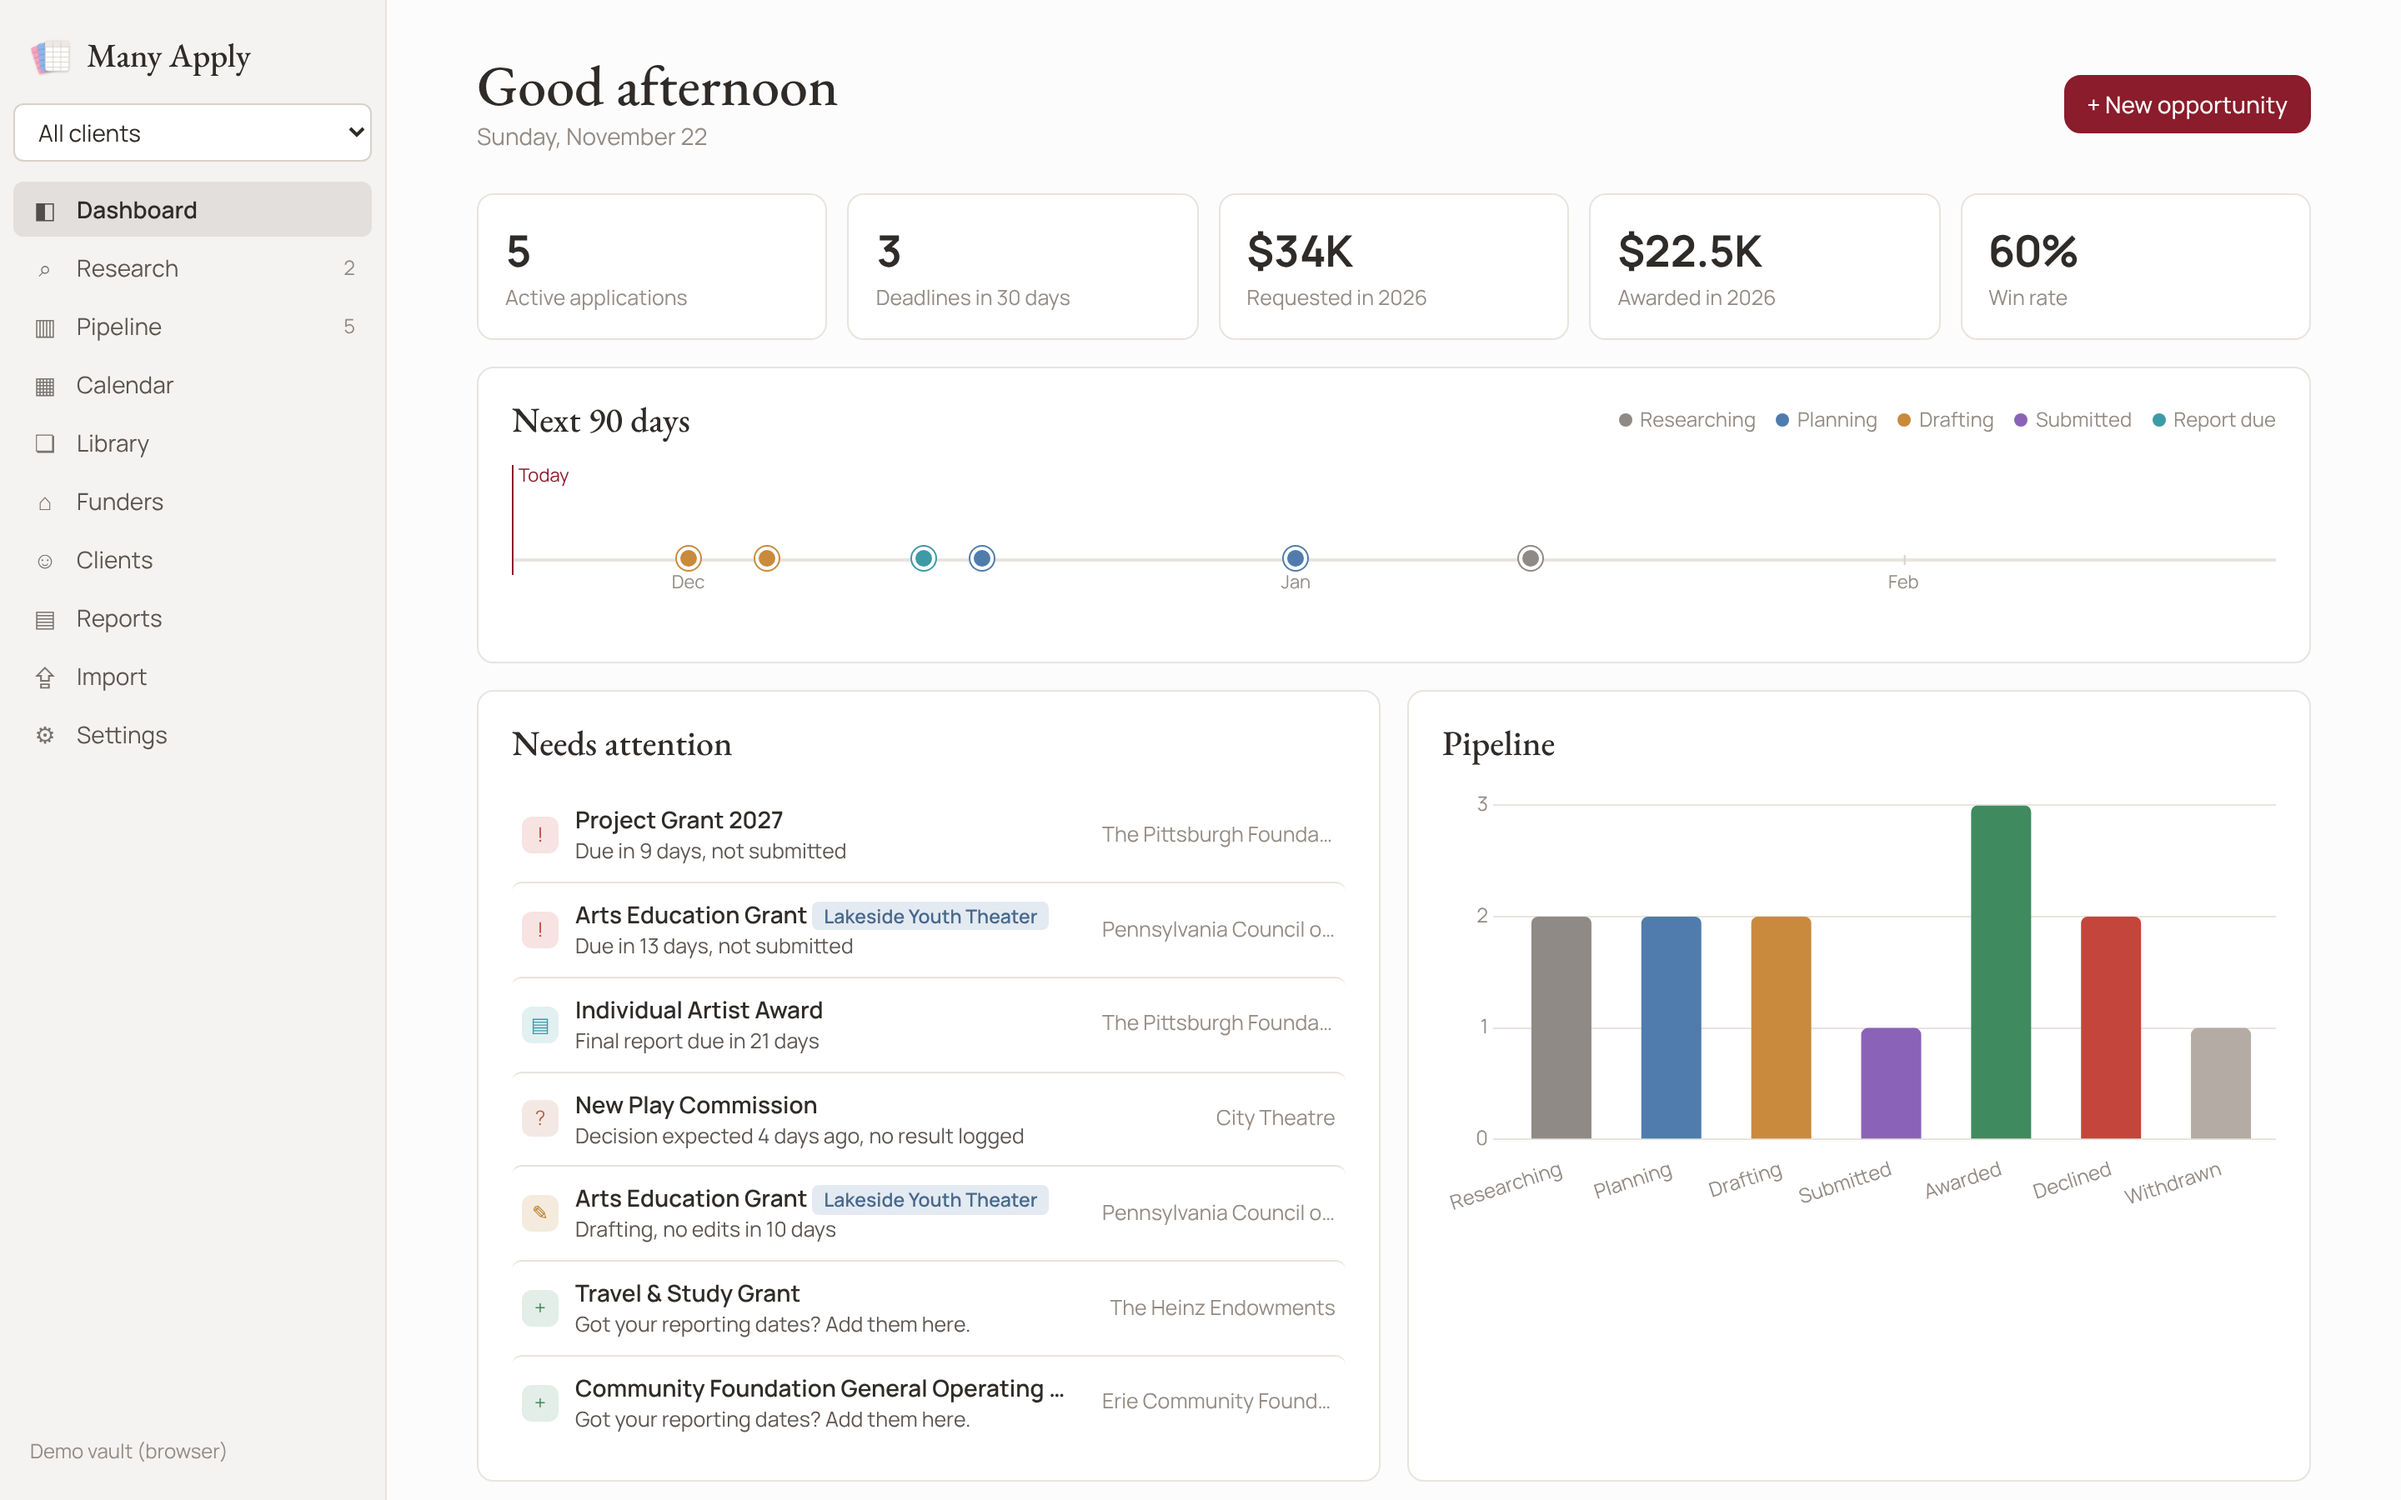
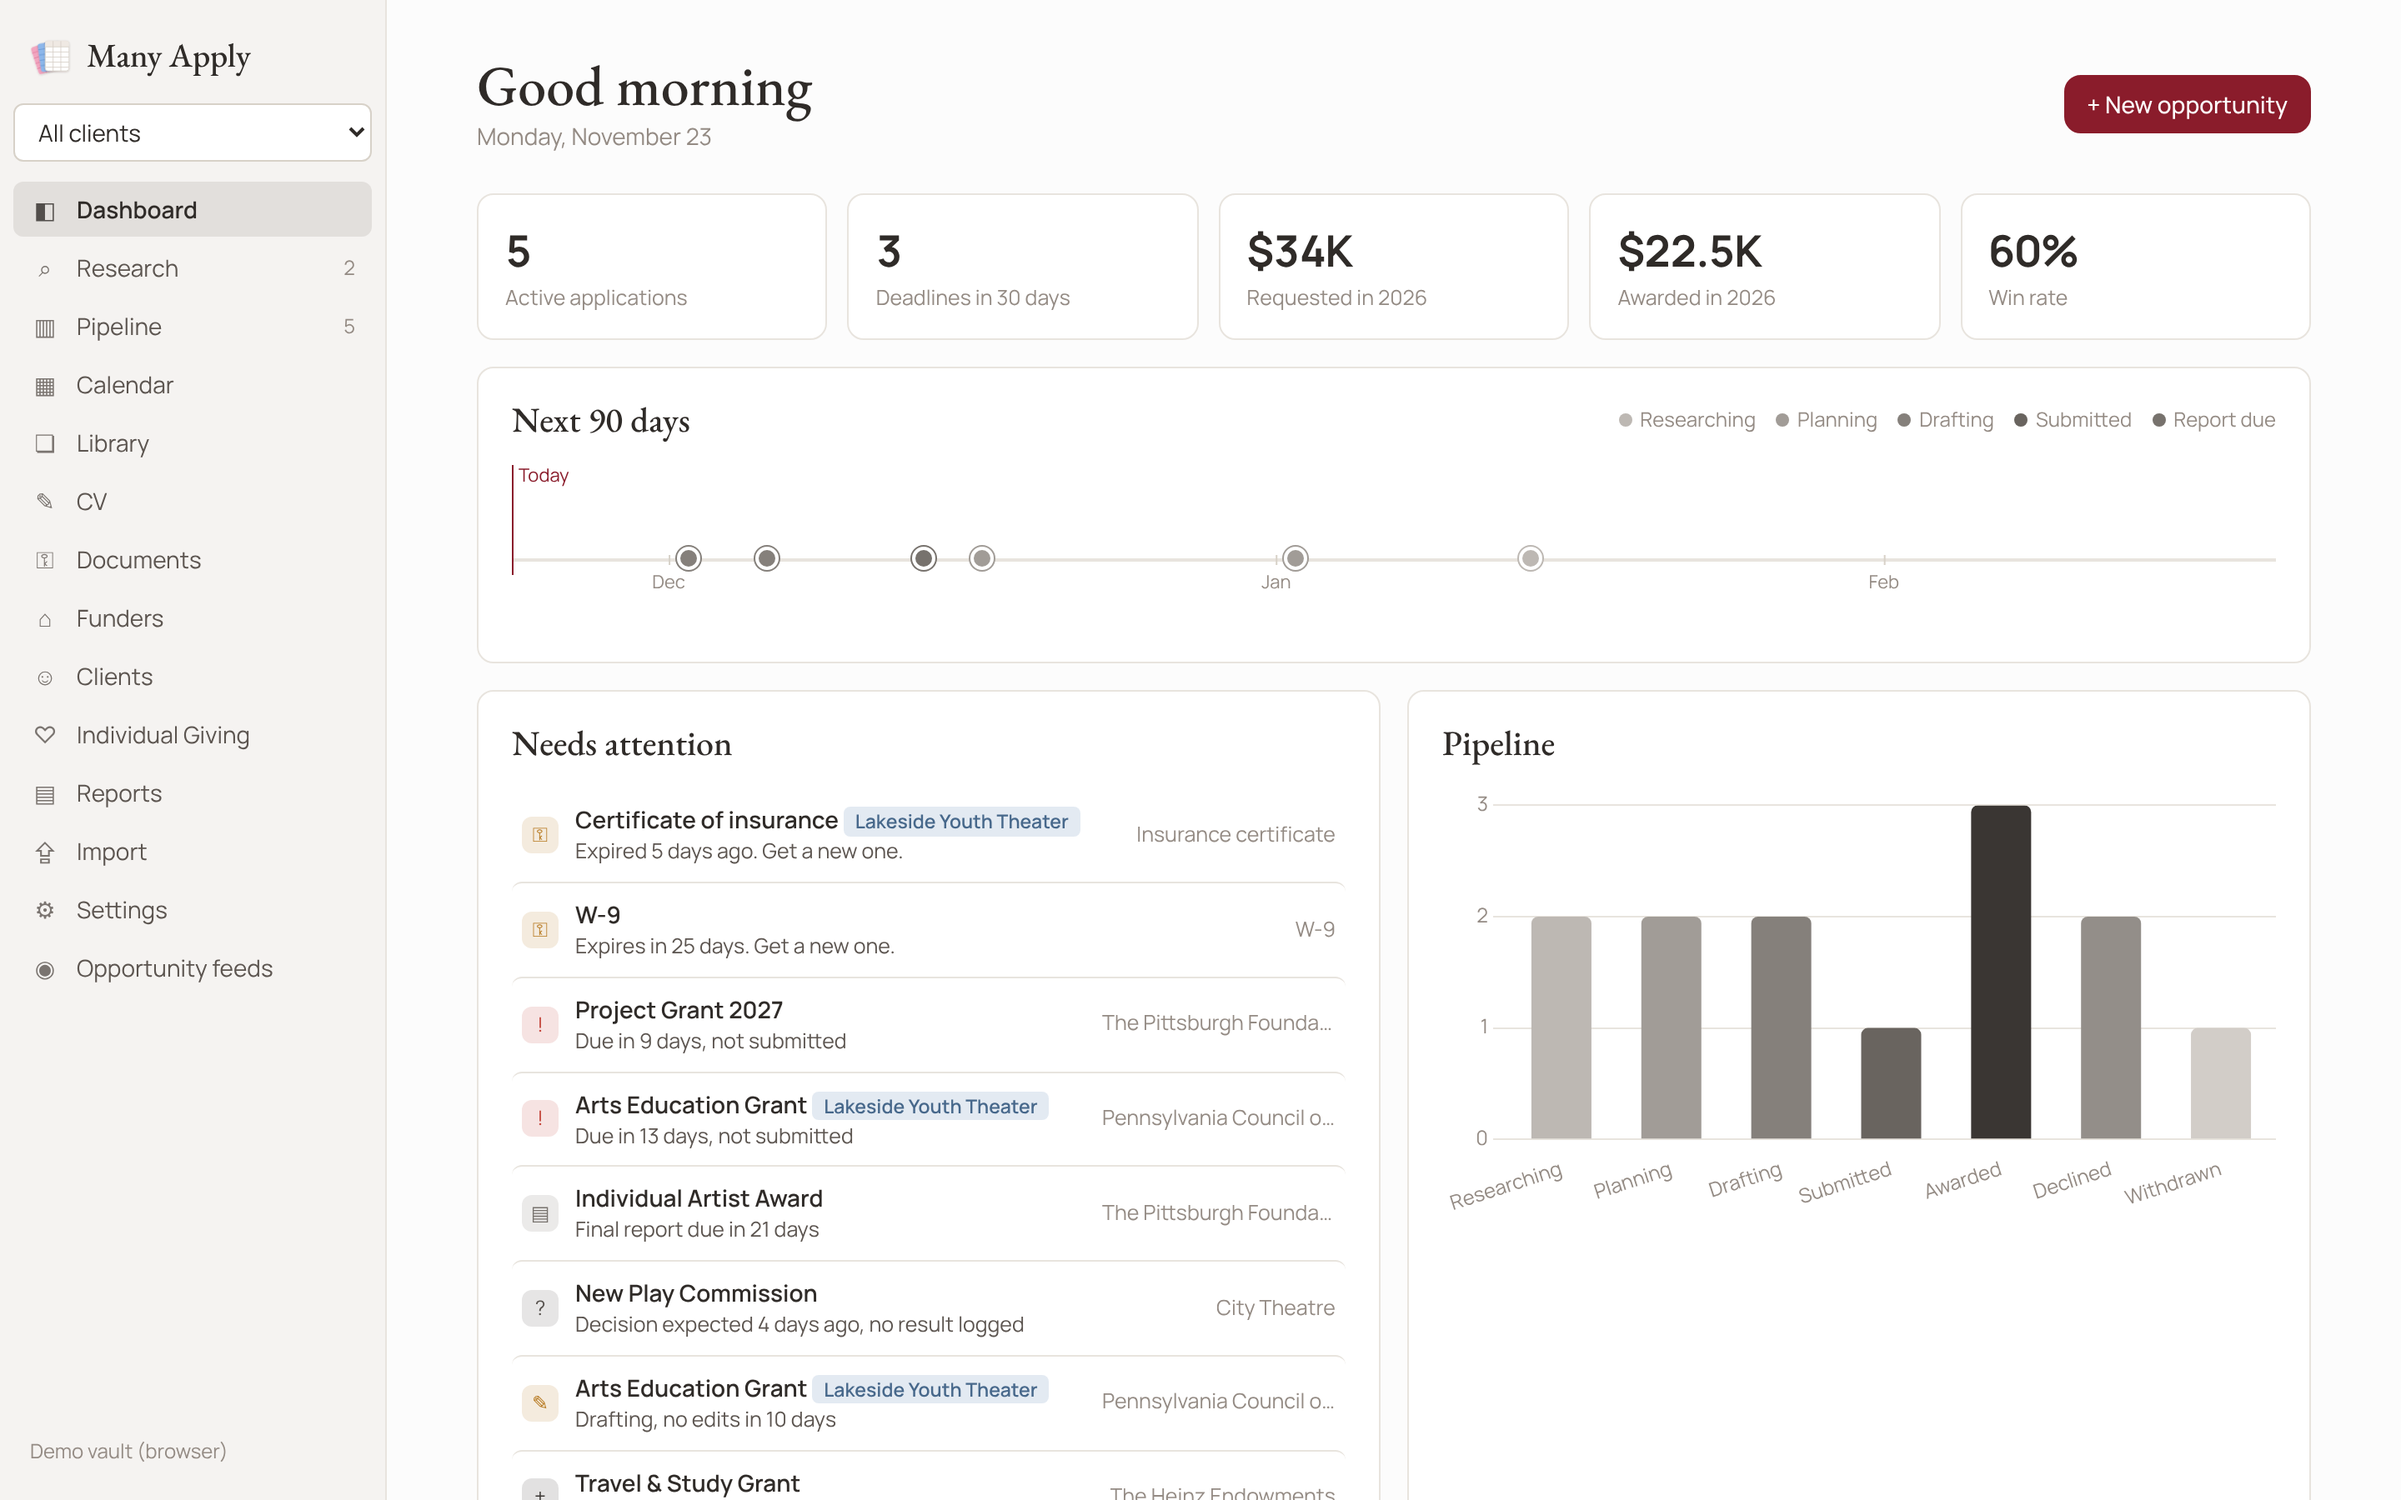
Refresh README screenshots and describe the 0.4.0 features
- New screenshots of the dashboard, application drawer (with Materials),
  Library, CV builder, Reports and Individual Giving
- README table covers the CV builder, Individual Giving, Materials, moving
  Library items, the new reports and the extension download; the vault
  layout shows donors/ and cv/
- Dropdown menus follow their button while the page scrolls, instead of
  closing on any scroll
- Round the average gift to whole dollars on Individual Giving

Claude-Session: https://claude.ai/code/session_01JGe5kFaZebnXjARWQuCdzf

diff --git a/src/components/ui.tsx b/src/components/ui.tsx
@@ -172,16 +172,18 @@ export function MenuButton({ label, items, className = "btn", title }: {
       });
     };
     place();
-    const close = (e: Event) => {
-      // Scrolling inside the menu itself is fine; scrolling the page would leave it floating.
-      if (e.type === "scroll" && menuRef.current?.contains(e.target as Node)) return;
-      setOpen(false);
+    // Follow the button while the page or drawer scrolls; close only once it's scrolled out of sight.
+    const onScroll = (e: Event) => {
+      if (menuRef.current?.contains(e.target as Node)) return;
+      const btn = ref.current?.getBoundingClientRect();
+      if (!btn || btn.bottom < 0 || btn.top > window.innerHeight) setOpen(false);
+      else place();
     };
-    window.addEventListener("resize", close);
-    window.addEventListener("scroll", close, true);
+    window.addEventListener("resize", place);
+    window.addEventListener("scroll", onScroll, true);
     return () => {
-      window.removeEventListener("resize", close);
-      window.removeEventListener("scroll", close, true);
+      window.removeEventListener("resize", place);
+      window.removeEventListener("scroll", onScroll, true);
     };
   }, [open, items.length]);
 

diff --git a/src/screens/Giving.tsx b/src/screens/Giving.tsx
@@ -119,7 +119,7 @@ export function Giving() {
       <div className="stats">
         <Stat v={fmtMoney(totals.raised, currency, true)} k={`Raised in ${year}`} />
         <Stat v={String(totals.givers)} k={`Donors in ${year}`} />
-        <Stat v={totals.avg === null ? "—" : fmtMoney(totals.avg, currency, true)} k="Average gift" />
+        <Stat v={totals.avg === null ? "—" : fmtMoney(Math.round(totals.avg), currency, true)} k="Average gift" />
         <Stat v={String(totals.due)} k="Follow-ups due" onClick={() => setStage("followup")} />
         <Stat v={String(totals.unthanked)} k="Gifts to thank" onClick={() => setStage("unthanked")} />
       </div>

diff --git a/README.md b/README.md
@@ -26,18 +26,31 @@ On first launch, choose a folder for your vault (an empty folder is fine), or ex
 | Dashboard | Active applications, deadlines in 30 days, requested and awarded this year, win rate. A 90-day deadline timeline, a pipeline chart, and a Needs Attention list. |
 | Research | Everything with status `researching`, as cards or a list. Quick-add with paste-in pattern matching for dates, amounts and links. Star, filter, "Move to Pipeline". |
 | Pipeline | Kanban board by status (drag to change status) or a sortable table. |
-| Grant drawer | Opens from any list. Every field editable inline, questions with word-count meters and drafts, Library suggestions, the work samples sent with it, reporting dates, budget summary, Todoist tasks, status history. Pin it open or expand it to full screen. "Export for review" saves every question and draft (plus the work sample list and budget summary) as one Word document, to send a client to comment on or edit with tracked changes. |
+| Grant drawer | Opens from any list. Every field editable inline, questions with word-count meters and drafts, Library suggestions, Materials (the Library answers, work samples and documents sent with it, plus files dropped straight onto it), reporting dates, budget summary, Todoist tasks, status history. Pin it open or expand it to full screen. "Export for review" saves every question and draft (plus the work sample list and budget summary) as one Word document, to send a client to comment on or edit with tracked changes. |
 | Draft editor | A calm writing surface with a word or character limit meter, "Insert from Library" (records `used_in`) and "Insert field" for client profile fields. |
 | Budget builder | Line items with optional quantity × rate, categories, types (Expense, Income, In-kind), live totals and gap, "set amount requested from the gap", a warning over the funder's max, CSV export with totals, copy as a table, templates. Saved as `budget.csv`. |
 | Calendar | Month and agenda views of deadlines, submissions, expected decisions and report due dates. `.ics` export, plus a live `.manyapply/calendar.ics` you can subscribe to. |
-| Library | **Answers:** reusable writing in a folder tree: Shared, plus one folder per client, plus any subfolders you add. Drag to move, "Duplicate to…" another client. **Work samples:** images, video, audio, PDFs and links (Vimeo, YouTube, SoundCloud…) with year, medium, dimensions or running time, credits and a description. Drop files in, preview and play them in the app, copy a caption, and see which applications each sample was sent with. |
-| Documents | Contracts, tax forms and legal paperwork applications ask for again and again: W-9, 501(c)(3) letter, fiscal sponsor agreement, insurance certificates, tax returns. Upload or drop files, set an expiry date and the Dashboard warns you before it runs out. A note on the screen explains who can see these files if your vault syncs through Dropbox or iCloud. Never included in "Share client folder". |
+| Library | **Answers:** reusable writing in a folder tree: Shared, plus one folder per client, plus any subfolders you add. Drag to move, pick a folder in an answer's drawer, or tick several and "Move to…". "Duplicate to…" another client. Moving keeps every application that uses it linked. **Work samples:** images, video, audio, PDFs and links (Vimeo, YouTube, SoundCloud…) with year, medium, dimensions or running time, credits and a description. Drop files in, preview and play them in the app, copy a caption, and see which applications each sample was sent with. |
+| Documents | Contracts, tax forms and legal paperwork applications ask for again and again: W-9, 501(c)(3) letter, fiscal sponsor agreement, insurance certificates, tax returns. Choose which client they're for, upload or drop files, set an expiry date and the Dashboard warns you before it runs out. A note on the screen explains who can see these files if your vault syncs through Dropbox or iCloud. Never included in "Share client folder". |
+| CV | An artist CV for each client, saved as `cv/<client>.md`. "Fill in from Many Apply" adds awarded grants, residencies, fellowships and work samples. A live preview, then export to Word, copy as plain text, or save a copy to the Library to attach to applications. |
 | Opportunity feeds | A panel you open from the sidebar with new grants and open calls from RSS and Atom feeds, with a badge for new items. Starts with ArtDeadline and NYC Playwrights; turn any of them off, filter by keywords, or add your own feeds. "Save to Research" turns an item into an opportunity, with any deadline and amount it can spot. Feeds are only read; nothing about you is sent. |
+| Individual Giving | A small donor CRM: gifts, thank-yous, touchpoints and the next follow-up for each person. Import donors and gifts from a CSV (PayPal, Stripe, Givebutter or a spreadsheet): rows for the same person are merged, existing donors are matched by email or name, gifts already logged are skipped, and you can undo. |
 | Funders | Every funder with totals (applied, awarded, win rate) and every grant sent to them. |
 | Clients | For freelance grant writers. A client switcher at the top of the sidebar filters every screen. Profiles, per-client budget templates and Todoist projects, and "Share client folder" as a zip. |
-| Reports | Requested vs. awarded by year, win rate by type and funder type, funding by funder, a deadline heatmap, average days to decision. Filter by year, tag, project and client. CSV export. |
+| Reports | Year in review (with a copyable summary), requested vs. awarded by year, win rate by type and funder type, funding by funder, a deadline heatmap, average days to decision, individual giving (retention, new vs. returning donors, top donors) and document readiness (which standard documents each client is missing or about to lose). Show or hide each report. Filter by year, tag, project and client. CSV export. |
 | Import | A plain-language guide next to a CSV importer for Notion, Google Sheets, Excel and Airtable exports: column matching, status matching, preview with warnings and duplicate detection, saved mappings, one-click undo. Export everything back to CSV. |
-| Settings | Vault folder, themes (light, dark, pink, build your own), chart and status colors (palettes, or pick each one), Todoist token (kept in the OS keychain), prep-task template, backup to zip, Chrome extension pairing. |
+| Settings | Vault folder, themes (light, dark, pink, build your own), chart and status colors (palettes, or pick each one), Todoist token (kept in the OS keychain), prep-task template, backup to zip, Chrome extension download and pairing. |
+
+## Screenshots
+
+| | |
+| --- | --- |
+| ![An application open in the drawer, with its Materials: a Library answer, work samples and a document](docs/screenshot-drawer.png) | ![The Library's answers, in a folder for each client plus Shared](docs/screenshot-library.png) |
+| **Application drawer:** everything about one application, including the materials that go with it. | **Library:** reusable answers and work samples, a folder per client. |
+| ![The CV builder with a live preview](docs/screenshot-cv.png) | ![Reports, starting with Year in review](docs/screenshot-reports.png) |
+| **CV builder:** filled in from awarded grants and work samples. | **Reports:** year in review, win rates, funders, giving and document readiness. |
+| ![Individual Giving: donors, gifts and follow-ups](docs/screenshot-giving.png) | |
+| **Individual Giving:** donors, gifts, thank-yous and follow-ups. | |
 
 ## The vault
 
@@ -67,6 +80,9 @@ Many Apply/
     me/
       w-9.md
       w-9.pdf
+  donors/                 (one .md file per donor, with their gifts)
+  cv/
+    me.md
   funders/
     pittsburgh-foundation.md
   .manyapply/
